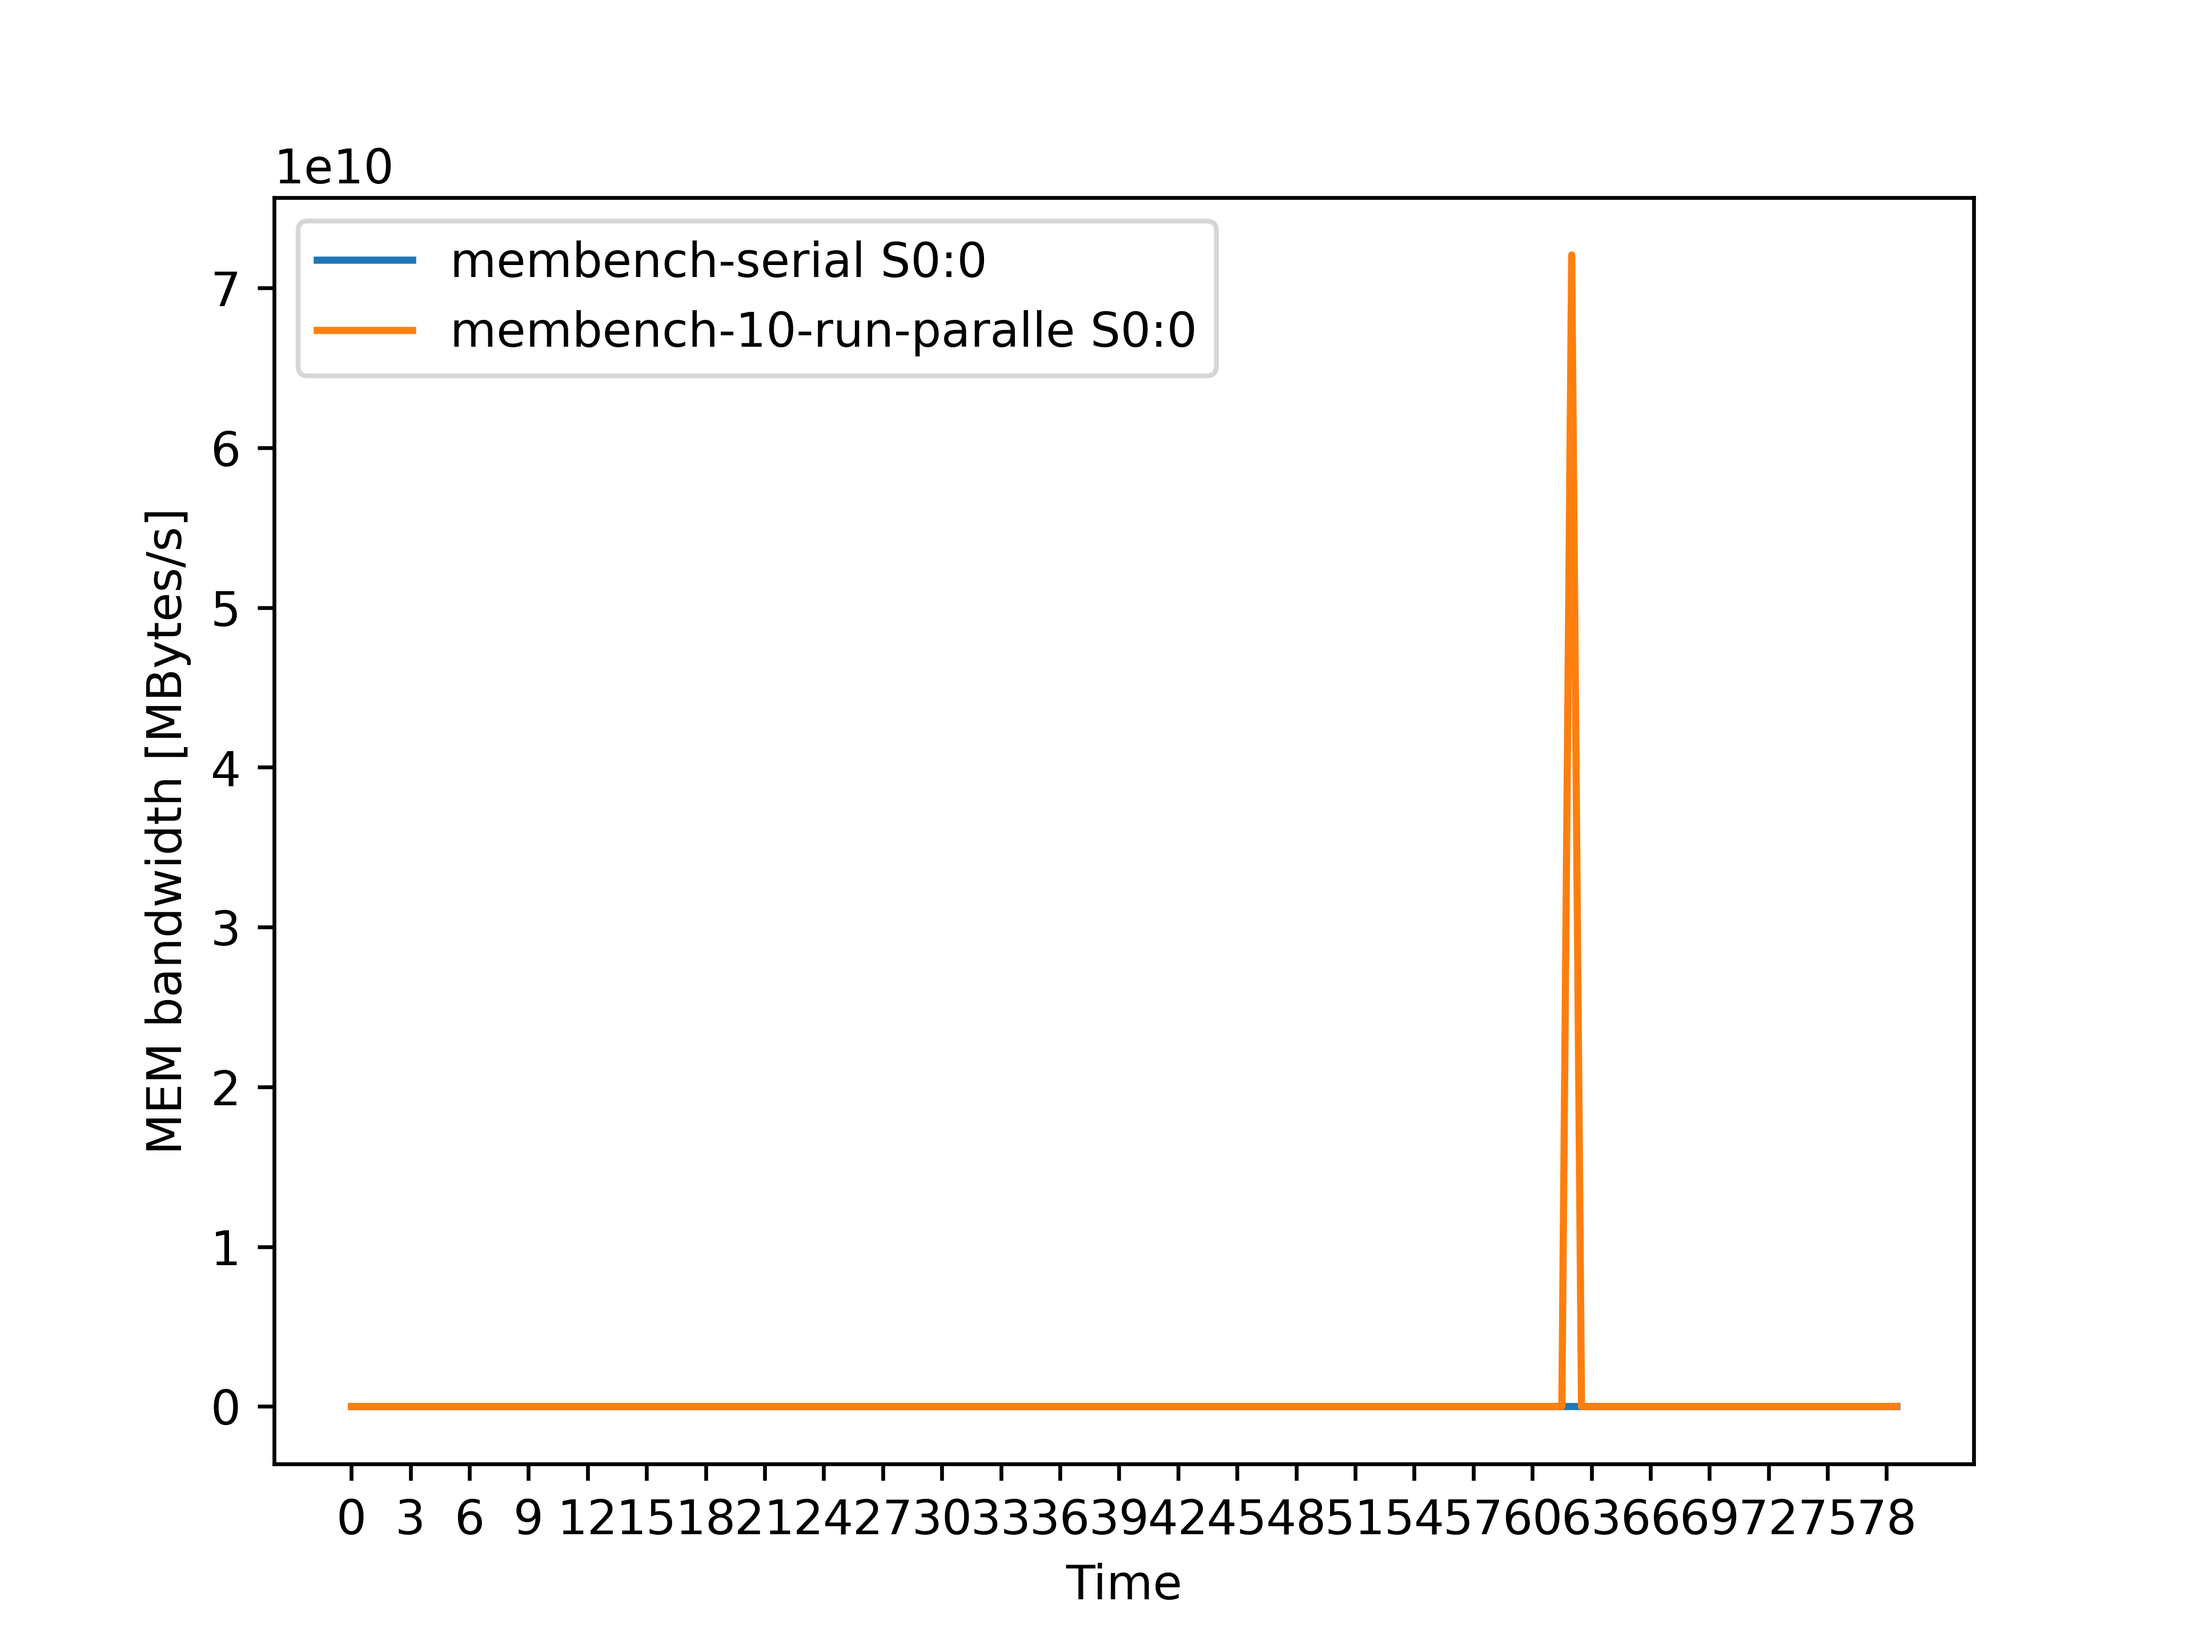
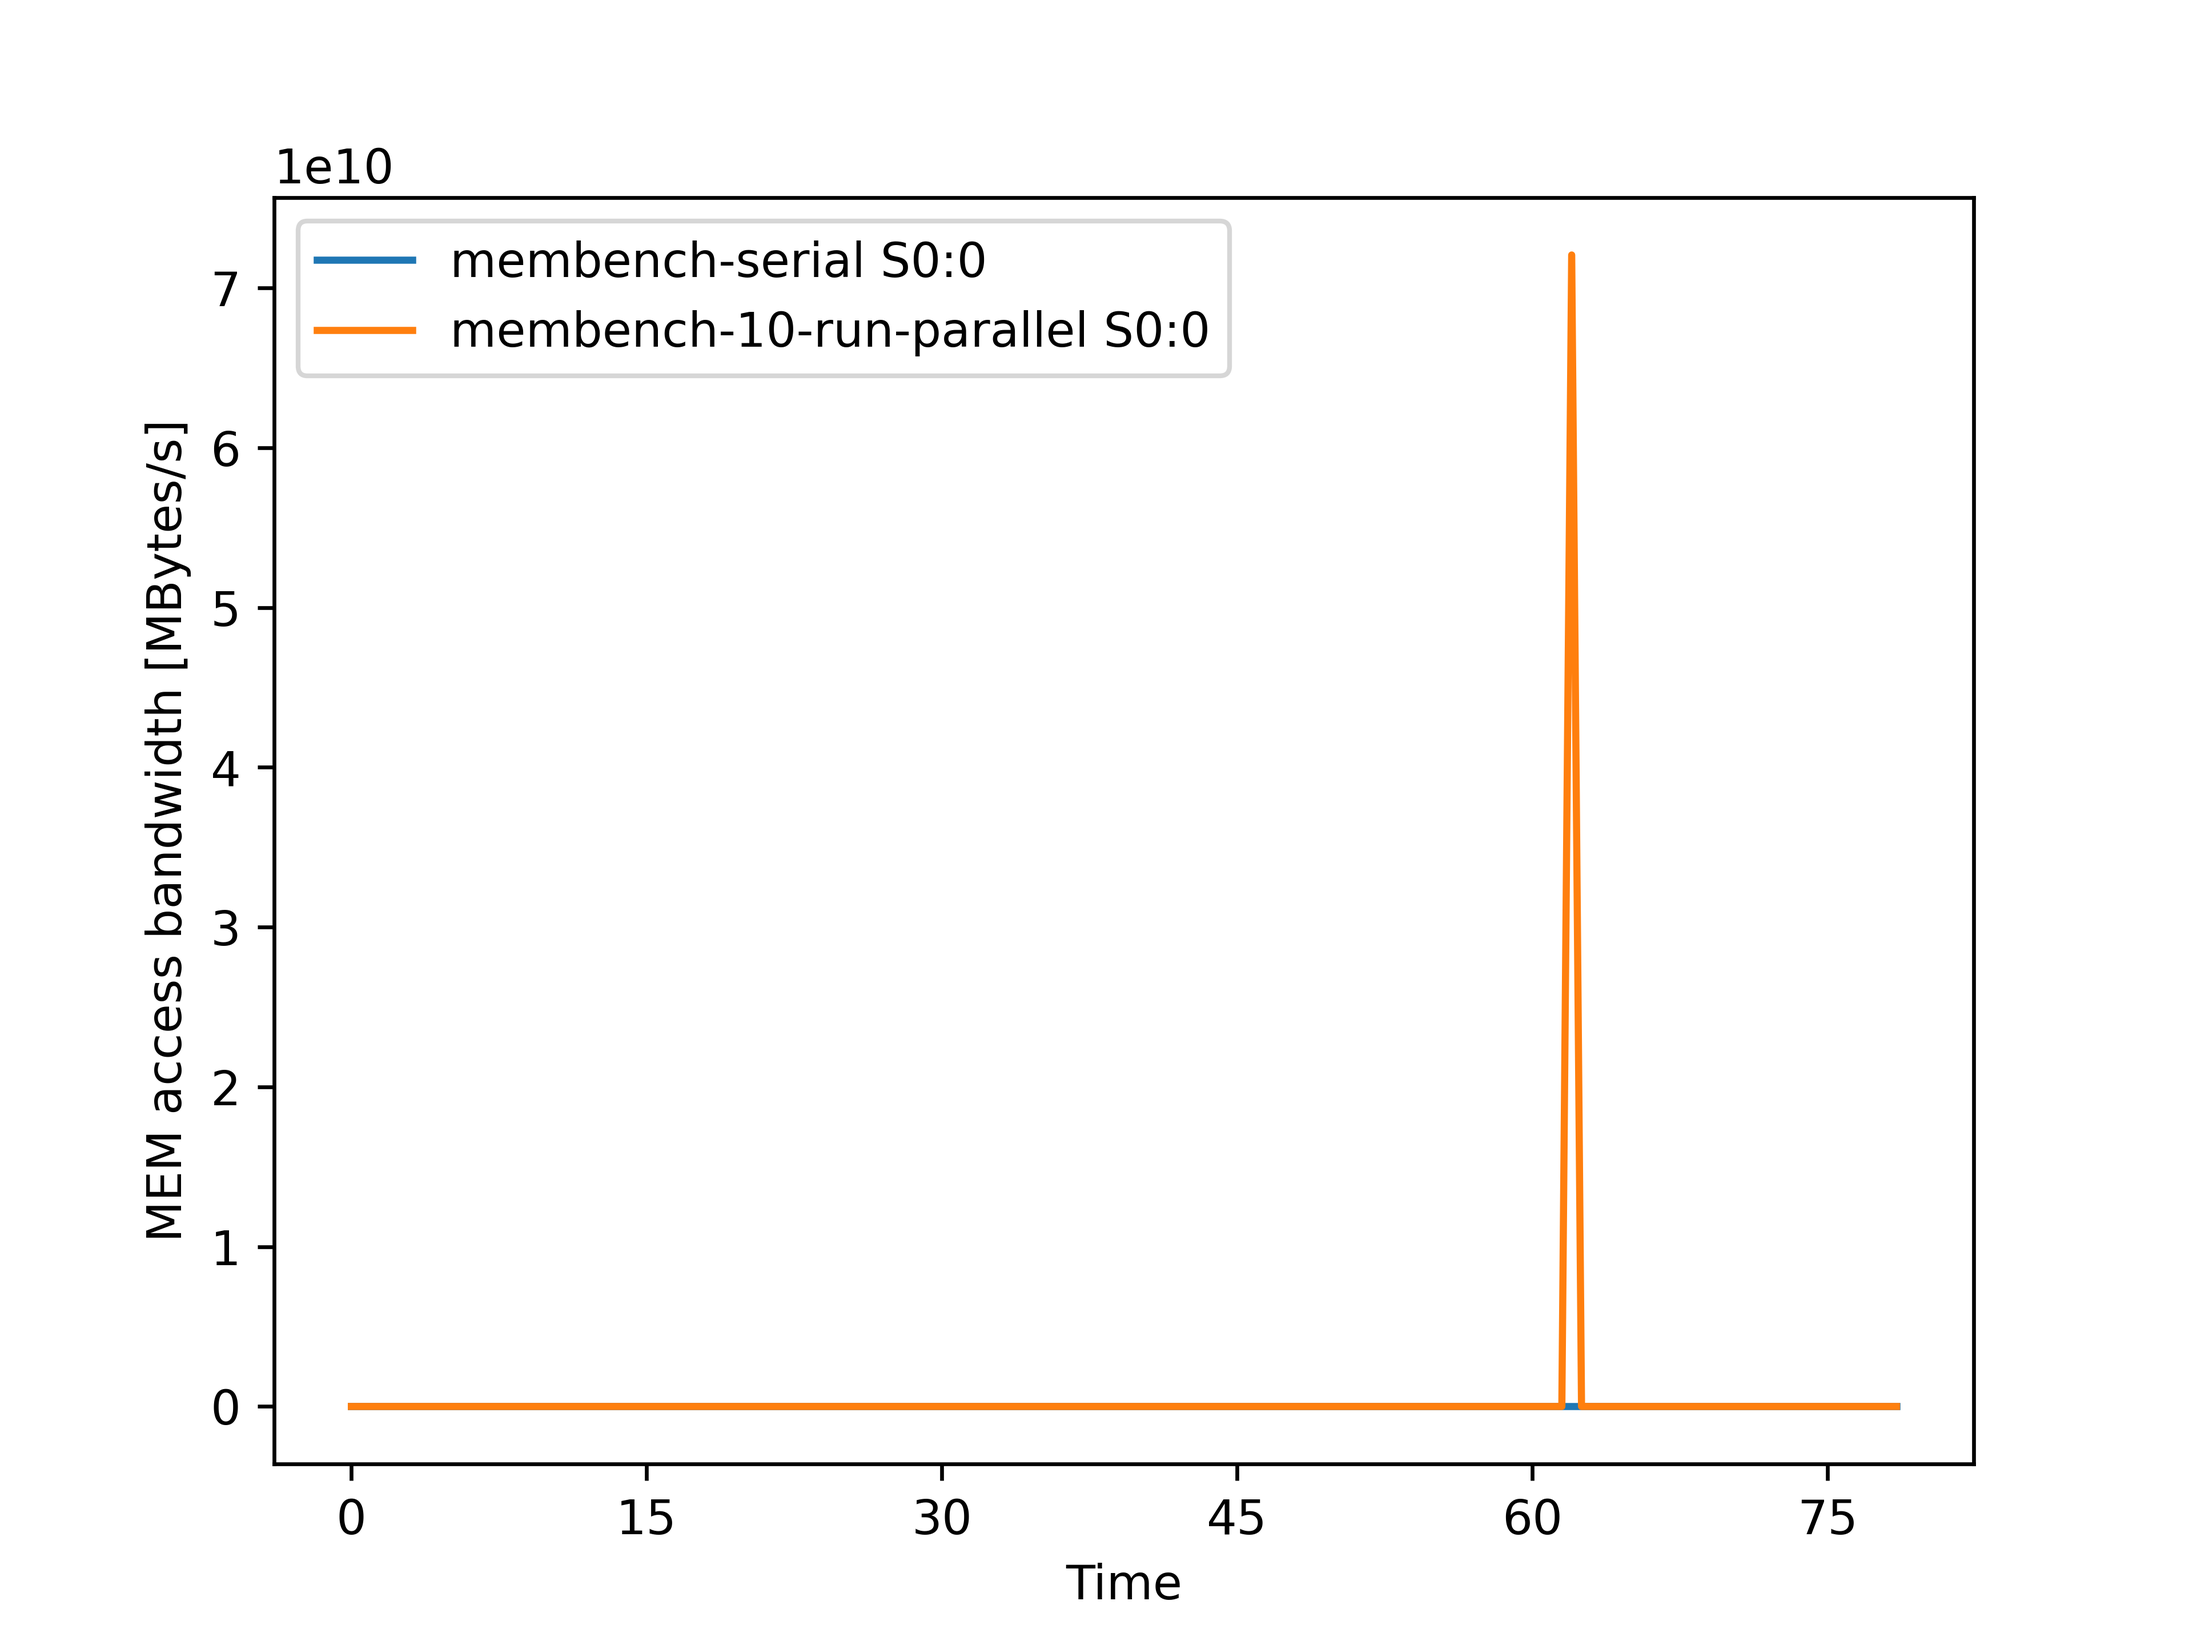
plot change

diff --git a/test1_parallel/ics_src/plot_test.py b/test1_parallel/ics_src/plot_test.py
@@ -4,6 +4,8 @@ import sys
 
 from numpy.lib.function_base import append
 
+# TEST="MEM"
+TEST="L3"
 def RepresentsInt(s):
     try: 
         int(s)
@@ -23,15 +25,12 @@ def get_data_timeline(out_path,err_path):
     f = open(out_path, "r")
     max_time=0
     for line in f:
-        arr=line.split(" ")
-        # print(arr)
+        arr=line.split(",")
         if("Size:" in arr[0]):
-            if(RepresentsFloat(arr[11].replace(',','')) == True):
-                max_time=float(arr[11].replace(',',''))
-            else:
-                max_time=float(arr[9].replace(',',''))
+            print(arr)
+            if(RepresentsFloat(arr[3].replace('sec=','')) == True):
+                max_time=float(arr[3].replace('sec=',''))
             break
-
     f.close()
 
     print(max_time)
@@ -41,6 +40,7 @@ def get_data_timeline(out_path,err_path):
     bandwith_list=[]
     count=len(time_line)
     for line in f:
+        print(line)
         arr=line.split(" ")
         if( RepresentsInt(arr[0]) and count!=0):
             bandwith_list=  append(bandwith_list,float(arr[8]))
@@ -58,9 +58,9 @@ def get_data_timeline(out_path,err_path):
 print("Time serial run")
 time_line_serial, bandwith_list_serial = get_data_timeline("../../test1_serial/ics_src/res/membench-timeline.out","../../test1_serial/ics_src/res/membench-timeline.err")
 print("Time parallel run1")
-time_line_parallel1, bandwith_list_parallel1 = get_data_timeline("res/out/slurm-1214488_0.out","res/err/slurm-1214488_0.err")
+time_line_parallel1, bandwith_list_parallel1 = get_data_timeline("res/"+TEST+"/out/slurm-1216045_0.out","res/"+TEST+"/err/slurm-1216045_0.err")
 print("Time parallel run2")
-time_line_parallel2, bandwith_list_parallel2 = get_data_timeline("task_res/test_parallel.out","task_res/test_parallel.err")
+time_line_parallel2, bandwith_list_parallel2 = get_data_timeline("task_res/"+TEST+"/test_parallel.out","task_res/"+TEST+"/test_parallel.err")
 
 expand_serial=np.append(bandwith_list_serial,np.zeros(len(time_line_parallel2)-len(bandwith_list_serial)) ) 
 expand_parallel1=np.append(bandwith_list_parallel1,np.zeros(len(time_line_parallel2)-len(bandwith_list_parallel1)) ) 
@@ -68,7 +68,7 @@ expand_parallel2=np.append(bandwith_list_parallel2,np.zeros(len(time_line_parall
 # print(len(expand_serial))
 # print(len(expand_parallel))
 # print(len(time_line_parallel))
-plt.ylabel("L3 load bandwidth [MBytes/s]")
+plt.ylabel(TEST+" access bandwidth [MBytes/s]")
 plt.xlabel("Time")
 # plt.yscale('log')
 plt.plot(time_line_parallel2, expand_serial, label="membench-serial")
@@ -76,5 +76,5 @@ plt.plot(time_line_parallel2, expand_parallel1, label="membench-3-run-paralle")
 plt.plot(time_line_parallel2, expand_parallel2, label="membench-10-run-paralle")
 plt.xticks(np.arange(min(time_line_parallel2), max(time_line_parallel2)+1, 3))
 plt.legend()
-plt.savefig('plot/plot_bandwith.png',dpi=600)
+plt.savefig('plot/plot_bandwith_'+TEST+'.png',dpi=600)
 plt.show()

diff --git a/test1_parallel/dxt_src/plot_test.py b/test1_parallel/dxt_src/plot_test.py
@@ -4,8 +4,8 @@ import sys
 
 from numpy.lib.function_base import append
 
-# TEST="MEM"
-TEST="L3"
+TEST="MEM"
+# TEST="L3"
 
 
 def RepresentsInt(s):
@@ -67,7 +67,10 @@ def get_data_timeline(out_path,err_path):
 print("Time serial run")
 time_line_serial, bandwith_list_serial = get_data_timeline("../../test1_serial/dxt_src/res/"+TEST+"/membench-timeline.out","../../test1_serial/dxt_src/res/"+TEST+"/membench-timeline.err")
 print("Time parallel run")
-time_line_parallel1, bandwith_list_parallel1 = get_data_timeline("res/"+TEST+"/out/slurm-833614_0.out","res/"+TEST+"/err/slurm-833614_0.err")
+if(TEST=="MEM"):
+    time_line_parallel1, bandwith_list_parallel1 = get_data_timeline("res/"+TEST+"/out/slurm-833100_0.out","res/"+TEST+"/err/slurm-833100_0.err")
+else:
+    time_line_parallel1, bandwith_list_parallel1 = get_data_timeline("res/"+TEST+"/out/slurm-833614_0.out","res/"+TEST+"/err/slurm-833614_0.err")
 # print("Time parallel run2")
 # time_line_parallel2, bandwith_list_parallel2 = get_data_timeline("task_res/test_parallel.out","task_res/test_parallel.err")
 
@@ -83,7 +86,7 @@ plt.xlabel("Time")
 plt.plot(time_line_parallel1, expand_serial, label="membench-serial S0:0")
 plt.plot(time_line_parallel1, expand_parallel1, label="membench-10-run-parallel S0:0")
 # plt.plot(time_line_parallel2, expand_parallel2, label="membench-10-run-paralle")
-plt.xticks(np.arange(min(time_line_parallel1), max(time_line_parallel1)+1, 3))
+plt.xticks(np.arange(min(time_line_parallel1), max(time_line_parallel1)+1, 15))
 plt.legend()
 plt.savefig('plot/plot_bandwith_'+TEST+'.png',dpi=600)
 plt.show()
